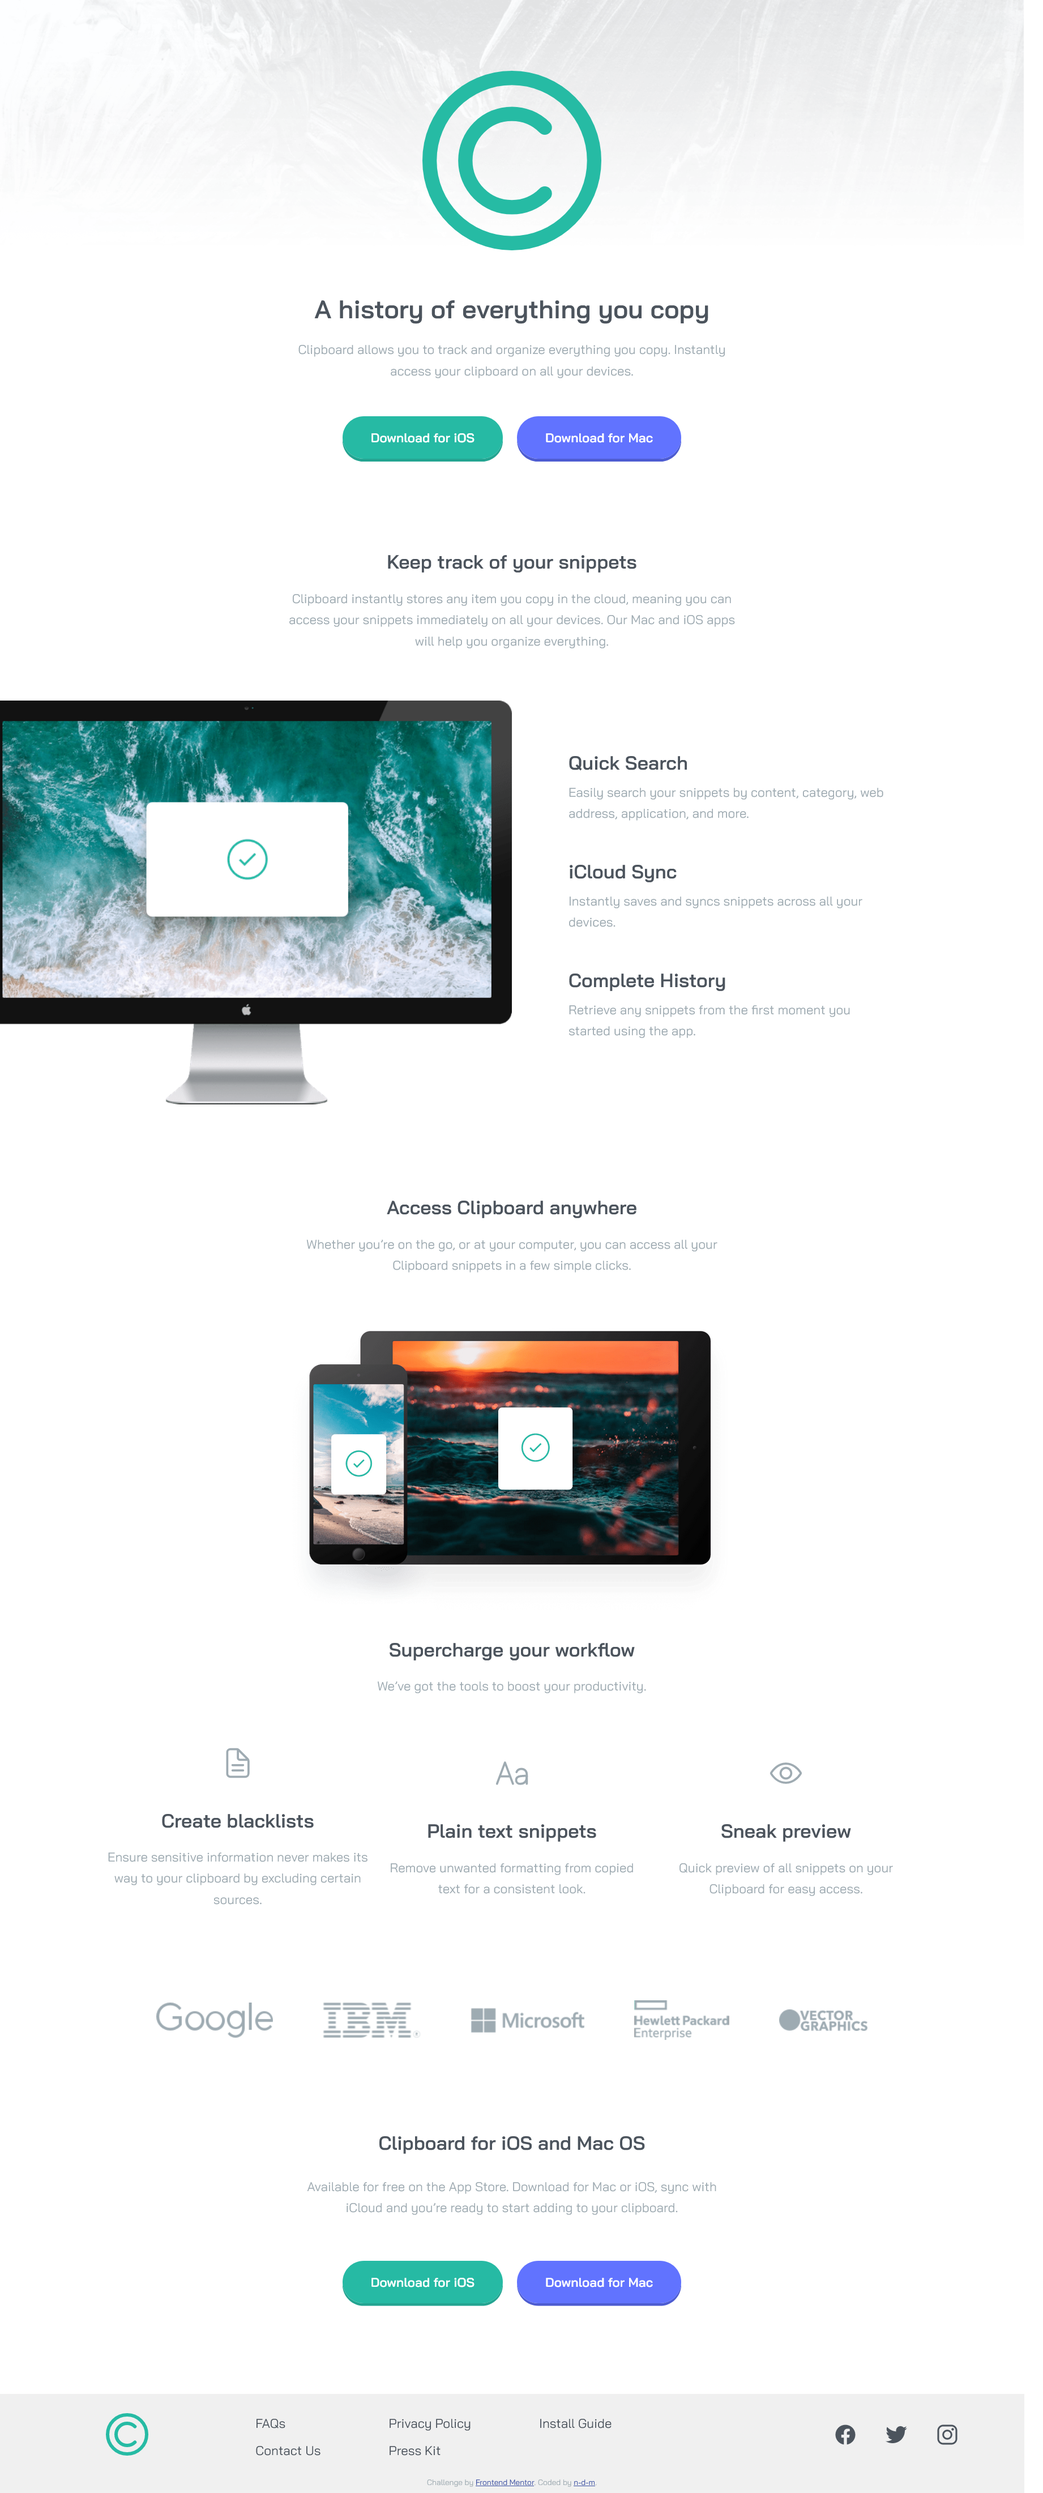
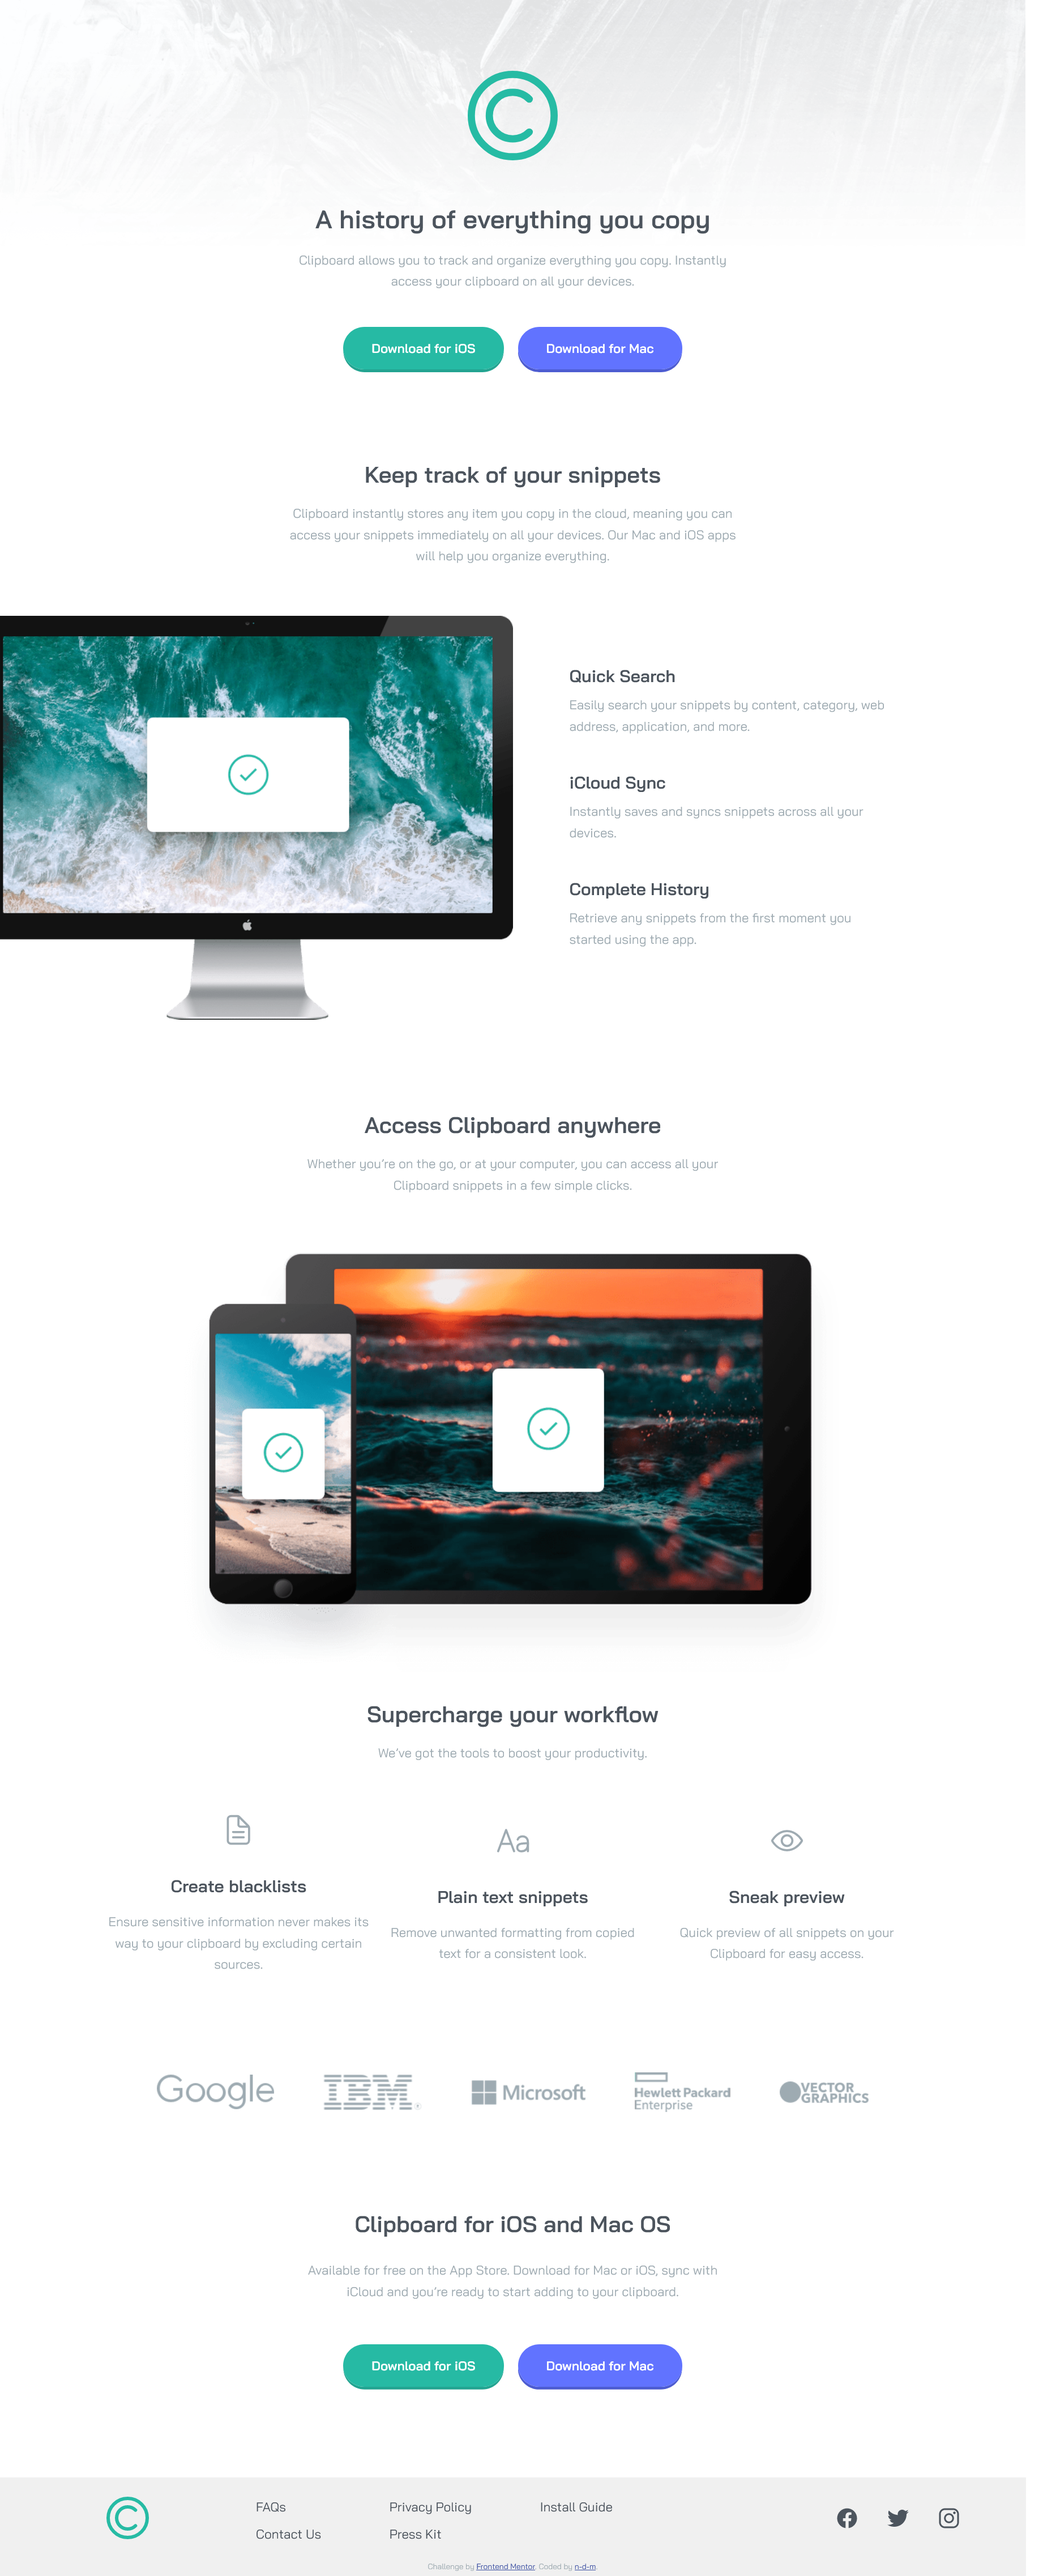
html and css chages

diff --git a/index.html b/index.html
@@ -42,7 +42,7 @@
         </main>
         <section class="mobile" id="track">
           <div class="sect-info">
-            <h1>Keep track of your snippets</h1>
+            <h2>Keep track of your snippets</h2>
             <p>
               Clipboard instantly stores any item you copy in the cloud, meaning
               you can access your snippets immediately on all your devices. Our
@@ -57,20 +57,20 @@
             />
             <div class="track-list">
               <div class="track-info">
-                <h2>Quick Search</h2>
+                <h3>Quick Search</h3>
                 <p>
                   Easily search your snippets by content, category, web address,
                   application, and more.
                 </p>
               </div>
               <div class="track-info">
-                <h2>iCloud Sync</h2>
+                <h3>iCloud Sync</h3>
                 <p>
                   Instantly saves and syncs snippets across all your devices.
                 </p>
               </div>
               <div class="track-info">
-                <h2>Complete History</h2>
+                <h3>Complete History</h3>
                 <p>
                   Retrieve any snippets from the first moment you started using
                   the app.
@@ -81,7 +81,7 @@
         </section>
         <section class="mobile" id="access">
           <div class="sect-info">
-            <h1>Access Clipboard anywhere</h1>
+            <h2>Access Clipboard anywhere</h2>
             <p>
               Whether you’re on the go, or at your computer, you can access all
               your Clipboard snippets in a few simple clicks.
@@ -95,13 +95,13 @@
         </section>
         <section class="mobile" id="supercharge">
           <div class="sect-info">
-            <h1>Supercharge your workflow</h1>
+            <h2>Supercharge your workflow</h2>
             <p>We’ve got the tools to boost your productivity.</p>
           </div>
           <div class="workflow">
             <div class="workflow-info">
               <ion-icon name="document-text-outline"></ion-icon>
-              <h2>Create blacklists</h2>
+              <h3>Create blacklists</h3>
               <p>
                 Ensure sensitive information never makes its way to your
                 clipboard by excluding certain sources.
@@ -109,7 +109,7 @@
             </div>
             <div class="workflow-info">
               <ion-icon name="text-outline"></ion-icon>
-              <h2>Plain text snippets</h2>
+              <h3>Plain text snippets</h3>
               <p>
                 Remove unwanted formatting from copied text for a consistent
                 look.
@@ -117,7 +117,7 @@
             </div>
             <div class="workflow-info">
               <ion-icon name="eye-outline"></ion-icon>
-              <h2>Sneak preview</h2>
+              <h3>Sneak preview</h3>
               <p>
                 Quick preview of all snippets on your Clipboard for easy access.
               </p>
@@ -135,7 +135,7 @@
           />
         </section>
         <section class="mobile" id="download">
-          <h1>Clipboard for iOS and Mac OS</h1>
+          <h2>Clipboard for iOS and Mac OS</h2>
           <p>
             Available for free on the App Store. Download for Mac or iOS, sync
             with iCloud and you’re ready to start adding to your clipboard.

diff --git a/style.css b/style.css
@@ -21,9 +21,16 @@ body {
   min-height: 100vh;
 }
 
-h1,
-h2 {
+h1, h2, h3 {
   color: var(--neutral-darkBlue);
+}
+
+h2{
+  font-size: 2rem;
+}
+
+h3{
+  font-size: 1.5rem;
 }
 
 p {
@@ -234,6 +241,12 @@ footer > a > img {
     width: 55%;
   }
 
+  main>img {
+    width: 20%;
+    align-self: center;
+    margin-bottom: 40px;
+  }
+
   .download-btns {
     flex-direction: row;
     justify-content: center;
@@ -282,6 +295,11 @@ footer > a > img {
     width: 55%;
   }
 
+  #access > img{
+    width: 150%;
+    align-self: center;
+  }
+
   #supercharge {
     margin-top: -90px;
   }
@@ -303,7 +321,7 @@ footer > a > img {
     justify-content: center;
     width: 55%;
     gap: 70px;
-    margin-top: 0;
+    margin: 10px 0px;
   }
 
   #download {
